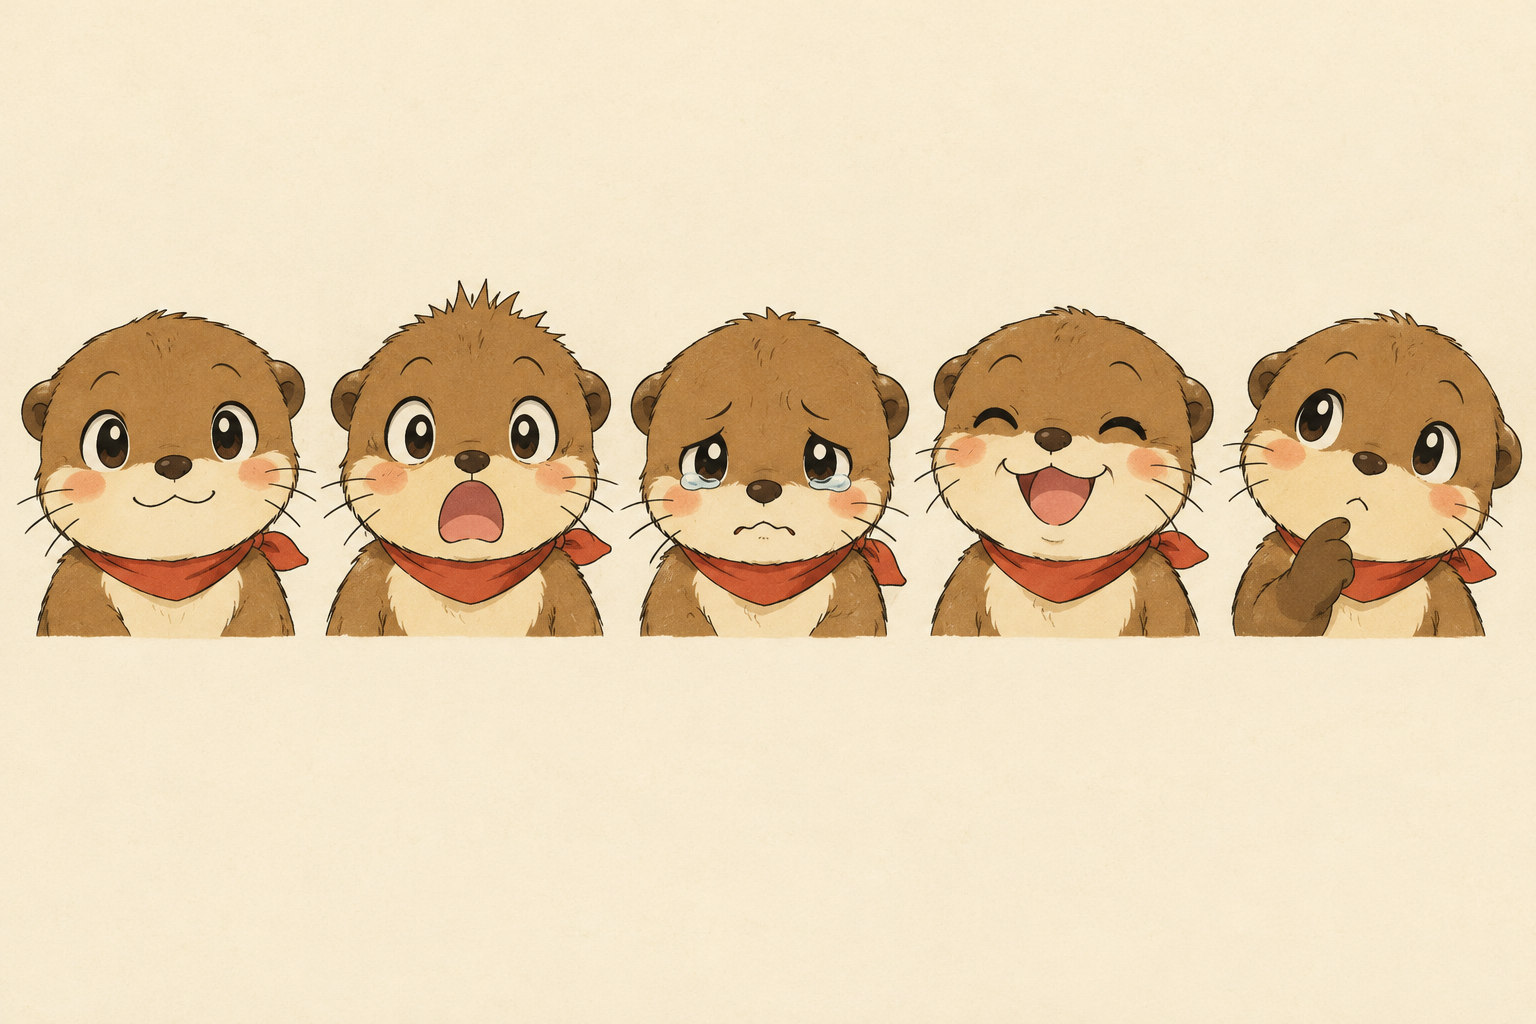
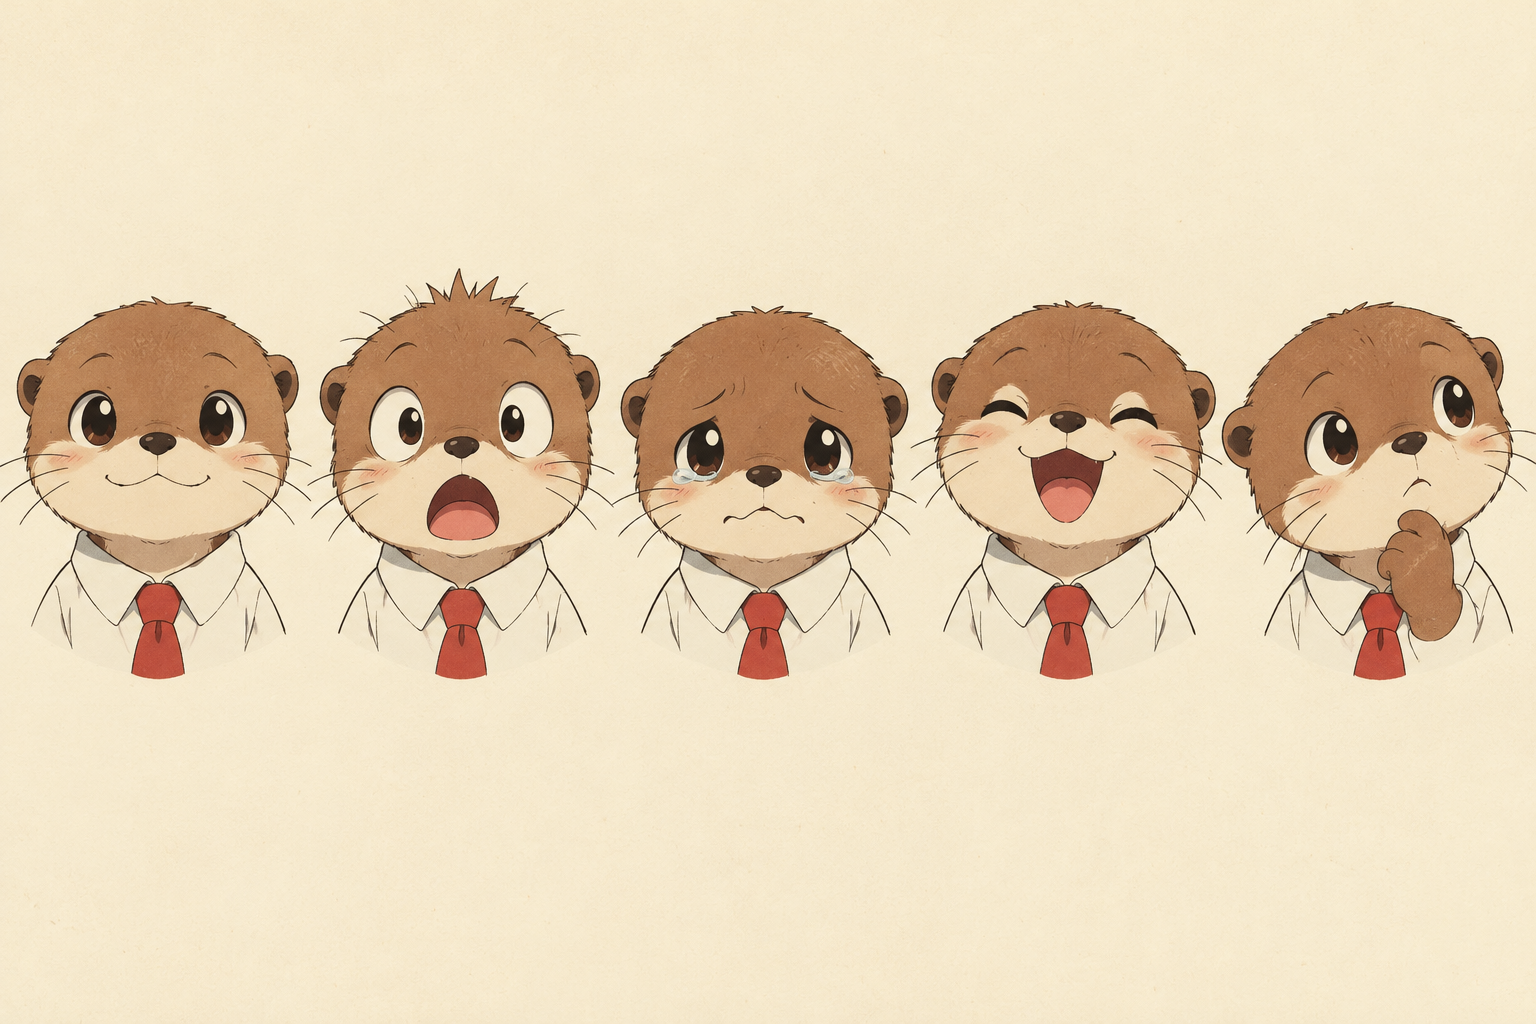
Dress the otter mascot in a shirt and red tie
Claude-Session: https://claude.ai/code/session_01XZvzYgUYfAerUNYrwtoPMP

Changed region(s): [[0.0, 0.25, 1.0, 0.6875]]

diff --git a/.claude/skills/priamos-daily/SKILL.md b/.claude/skills/priamos-daily/SKILL.md
@@ -232,12 +232,14 @@ cp $W/caption.txt cards/$D-$NN.txt && cp $W/caption.txt reels/$D-$NN.txt
 ### 4-1. 마스코트 시험 (2026-11-09 07:37 ~ 2026-11-15 22:37, 사용자 승인 "마스코트 시험해", 2026-11-08)
 
 마스코트는 오리지널 캐릭터 **아기 수달**이다(이름 미정, 사용자 선택 2026-11-08).
-- 생김새: 카라멜색 털, 크림색 얼굴, 볼 홍조, 빨간 스카프. 얼굴이 크게 보이는 상반신 구도이고, 카드 그림과 같은 레트로 셀 애니 그림체다.
+- 생김새: 카라멜색 털, 크림색 얼굴, 볼 홍조, **흰 셔츠에 빨간 넥타이**(꼬마 뉴스 앵커). 얼굴이 크게 보이는 상반신 구도이고, 카드 그림과 같은 레트로 셀 애니 그림체다(사용자 요청 "스카프 말고 셔츠랑 넥타이", 2026-11-08).
 - 그림은 `assets/mascot/` 에 표정 5개로 고정돼 있다(calm, surprised, sad, happy, curious).
-  - 2026-11-08 Figma 노드 89:3 에서 한 장에 같이 그려 생김새를 맞췄다. 원본은 `assets/mascot/sheet.png`.
+  - 2026-11-08 Figma 노드 90:2 에서 한 장에 같이 그려 생김새를 맞췄다. 원본은 `assets/mascot/sheet.png`.
   - **회차마다 새로 그리지 않는다.** 새로 그리면 생김새가 바뀌어 "그 계정" 기억이 안 생긴다.
 - 예비 그림도 보관해 둔다. 쓰려면 파일을 `assets/mascot/` 로 바꿔 넣는다.
-  - 청록 스카프 수달: 노드 89:2, `assets/mascot/archive/otter_teal/`
+  - 청록 넥타이 수달: 노드 90:3, `assets/mascot/archive/otter_tie_teal/`
+  - 빨간 스카프 수달: 노드 89:3, `assets/mascot/archive/otter_scarf_red/`
+  - 청록 스카프 수달: 노드 89:2, `assets/mascot/archive/otter_scarf_teal/`
   - 처음 만든 까치 "프리": 노드 86:2, `assets/mascot/archive/magpie/`
 - 켜면 다음 세 곳에 나온다.
   - 캐러셀 표지 오른쪽 아래: 둥근 배지 + 말풍선

diff --git a/log/weekly.md b/log/weekly.md
@@ -45,3 +45,4 @@ priamos-weekly 가 매주 바꾼 설정과 근거를 적는다. 비공개 지표
 - 11/16 주간 점검에서 볼 숫자: 마스코트 O/X 릴스 조회 중앙값과 평균 시청, 같은 분류 안에서의 비교.
   - 기준: 1.2배 이상이면 계속 쓸지 사용자에게 묻고, 0.9배 이하면 끄고, 그 사이면 1주 더 본다.
 - 같은 날 사용자 선택으로 마스코트를 까치에서 **아기 수달**(빨간 스카프, 얼굴 크게, 카드 그림체에 맞춤, Figma 노드 89:3)로 바꿨다. 시험 시작 전이라 결과 비교에는 영향이 없다. 까치와 청록 스카프 수달은 `assets/mascot/archive/` 에 보관했다.
+- 이어서 사용자 요청("스카프 말고 셔츠랑 넥타이 입혀봐")으로 아기 수달 옷을 **흰 셔츠 + 빨간 넥타이**(Figma 노드 90:2)로 바꿨다. 이것도 시험 시작 전이다. 스카프 버전과 청록 넥타이 버전은 `assets/mascot/archive/` 에 보관했다.
